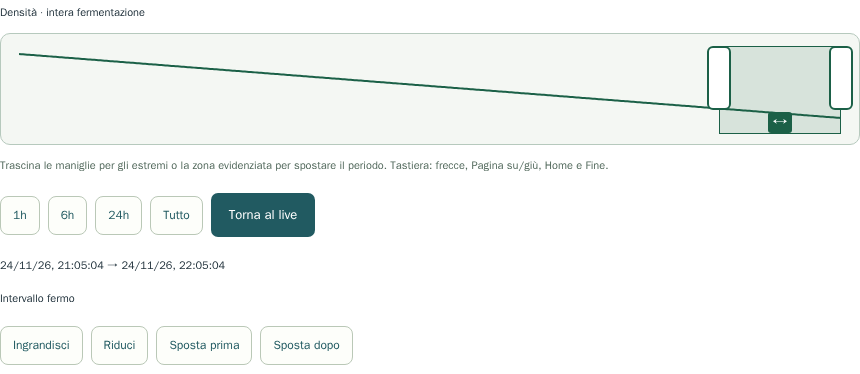
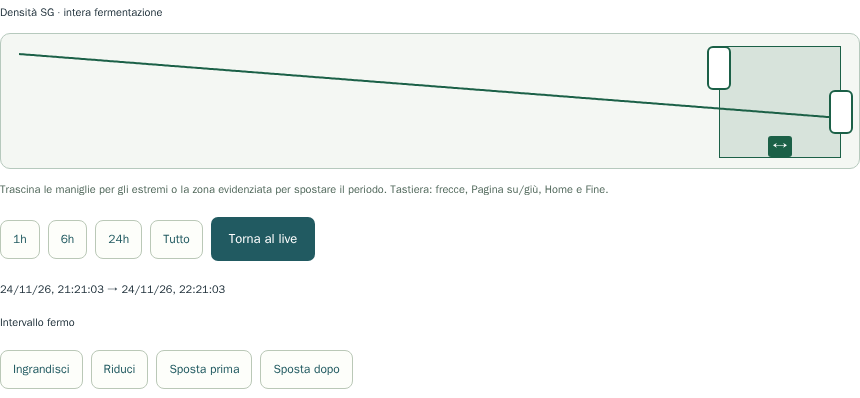
Keep nearby time handles independently draggable on touch screens

diff --git a/src/frontend/src/TimeNavigator.vue b/src/frontend/src/TimeNavigator.vue
@@ -34,6 +34,7 @@ let drag: {
   start: number
   end: number
   width: number
+  edge: 'start' | 'end' | 'window'
 } | null = null
 function shifted(start: number, end: number): [number, number] {
   const duration = Math.min(end - start, span.value)
@@ -44,19 +45,20 @@ function shifted(start: number, end: number): [number, number] {
   return [left, left + duration]
 }
 function handle(event: Event, edge: 'start' | 'end') {
-  const value = Number((event.target as HTMLInputElement).value)
-  if (edge === 'start')
-    emit(
-      'range',
-      Math.max(props.minimum, Math.min(value, props.end - shortest.value)),
-      props.end,
-    )
-  else
-    emit(
-      'range',
-      props.start,
-      Math.min(props.maximum, Math.max(value, props.start + shortest.value)),
-    )
+  selectEdge(edge, Number((event.target as HTMLInputElement).value))
+}
+function selectEdge(edge: 'start' | 'end', value: number) {
+  emit('range', ...edgeRange(edge, value, props.start, props.end))
+}
+function edgeRange(
+  edge: 'start' | 'end',
+  value: number,
+  start: number,
+  end: number,
+): [number, number] {
+  return edge === 'start'
+    ? [Math.max(props.minimum, Math.min(value, end - shortest.value)), end]
+    : [start, Math.min(props.maximum, Math.max(value, start + shortest.value))]
 }
 function key(event: KeyboardEvent, edge: 'start' | 'end' | 'window') {
   const directions: Record<string, number> = {
@@ -87,21 +89,13 @@ function key(event: KeyboardEvent, edge: 'start' | 'end' | 'window') {
         : event.key === 'End'
           ? props.maximum
           : current + amount
-    if (edge === 'start')
-      emit(
-        'range',
-        Math.max(props.minimum, Math.min(value, props.end - shortest.value)),
-        props.end,
-      )
-    else
-      emit(
-        'range',
-        props.start,
-        Math.min(props.maximum, Math.max(value, props.start + shortest.value)),
-      )
+    selectEdge(edge, value)
   }
 }
-function begin(event: PointerEvent) {
+function begin(
+  event: PointerEvent,
+  edge: 'start' | 'end' | 'window' = 'window',
+) {
   if (event.button !== 0 || !track.value) return
   event.preventDefault()
   const target = event.currentTarget as HTMLElement
@@ -113,12 +107,21 @@ function begin(event: PointerEvent) {
     start: props.start,
     end: props.end,
     width: track.value.getBoundingClientRect().width,
+    edge,
   }
 }
 function move(event: PointerEvent) {
   if (!drag || drag.id !== event.pointerId) return
   const delta = ((event.clientX - drag.x) / (drag.width || 1)) * span.value
-  draft.value = shifted(drag.start + delta, drag.end + delta)
+  draft.value =
+    drag.edge === 'window'
+      ? shifted(drag.start + delta, drag.end + delta)
+      : edgeRange(
+          drag.edge,
+          (drag.edge === 'start' ? drag.start : drag.end) + delta,
+          drag.start,
+          drag.end,
+        )
 }
 function finish(event: PointerEvent) {
   if (!drag || drag.id !== event.pointerId) return
@@ -157,7 +160,10 @@ const densityLine = computed(() => {
 <template>
   <section class="time-navigator" aria-label="Navigazione temporale">
     <p>Densità SG · intera fermentazione</p>
-    <div class="overview">
+    <div
+      class="overview"
+      :class="{ narrow: (end - start) / (maximum - minimum || 1) < 0.2 }"
+    >
       <div ref="track" class="overview-track">
         <svg
           viewBox="0 0 1000 80"
@@ -215,6 +221,11 @@ const densityLine = computed(() => {
           :value="selected[0]"
           @input="handle($event, 'start')"
           @keydown="key($event, 'start')"
+          @pointerdown="begin($event, 'start')"
+          @pointermove="move"
+          @pointerup="finish"
+          @pointercancel="cancel"
+          @lostpointercapture="cancel"
         />
         <input
           type="range"
@@ -227,6 +238,11 @@ const densityLine = computed(() => {
           :value="selected[1]"
           @input="handle($event, 'end')"
           @keydown="key($event, 'end')"
+          @pointerdown="begin($event, 'end')"
+          @pointermove="move"
+          @pointerup="finish"
+          @pointercancel="cancel"
+          @lostpointercapture="cancel"
         />
       </div>
     </div>
@@ -353,6 +369,7 @@ input[type='range'] {
   appearance: none;
   background: transparent;
   pointer-events: none;
+  touch-action: none;
 }
 input[type='range']::-webkit-slider-thumb {
   appearance: none;
@@ -389,5 +406,24 @@ input[type='range']:focus-visible::-moz-range-thumb {
 .navigator-help {
   font-size: 0.8rem;
   color: #52695c;
+}
+.overview.narrow {
+  height: 136px;
+}
+.narrow .overview-track,
+.narrow .selected-window {
+  height: 112px;
+}
+.narrow input[type='range'] {
+  height: 44px;
+}
+.narrow input[type='range']:last-of-type {
+  top: 44px;
+}
+.narrow input[type='range']::-webkit-slider-thumb {
+  height: 44px;
+}
+.narrow input[type='range']::-moz-range-thumb {
+  height: 40px;
 }
 </style>

diff --git a/tests/browser/test_time_window_dashboard.py b/tests/browser/test_time_window_dashboard.py
@@ -57,9 +57,9 @@ def test_period_loads_all_pages_and_freezes_until_return_to_live(
     assert float(points.split()[0].split(",")[1]) == 8
     assert float(points.split()[-1].split(",")[1]) == 72
     if directory := os.environ.get("HACKBREW_SCREENSHOT_DIR"):
-        page.get_by_role("region", name="Navigazione temporale").screenshot(
-            path=Path(directory) / f"navigatore-{width}.png"
-        )
+        navigator = page.get_by_role("region", name="Navigazione temporale")
+        navigator.evaluate("element => element.scrollIntoView({block: 'center'})")
+        navigator.screenshot(path=Path(directory) / f"navigatore-{width}.png")
     preview_box = preview.bounding_box()
     chart_box = page.get_by_role(
         "img", name="Grafico a linee: 61 letture", exact=True
@@ -226,9 +226,11 @@ def test_overview_window_moves_without_changing_duration_and_clamps_to_bounds(
     assert float(end.input_value()) == pytest.approx(base + 39600, rel=0, abs=0.00001)
     assert float(end.input_value()) - float(start.input_value()) == pytest.approx(3600)
     expect(page.get_by_text("Intervallo fermo", exact=True)).to_be_visible()
+    expect(page.get_by_text("Caricamento storico…", exact=True)).to_have_count(0)
     selection.scroll_into_view_if_needed()
     box = selection.bounding_box()
     assert box is not None
+    selected_before_touch = page.get_by_label("Intervallo visualizzato").inner_text()
     x, y = box["x"] + box["width"] / 2, box["y"] + box["height"] * 0.85
     session = page.context.new_cdp_session(page)
     session.send(
@@ -241,11 +243,13 @@ def test_overview_window_moves_without_changing_duration_and_clamps_to_bounds(
     )
     session.send("Input.dispatchTouchEvent", {"type": "touchEnd", "touchPoints": []})
     session.detach()
+    expect(page.get_by_label("Intervallo visualizzato")).not_to_have_text(selected_before_touch)
     assert float(end.input_value()) < base + 39600
     assert float(end.input_value()) - float(start.input_value()) == pytest.approx(3600)
     # Both real thumbs share the preview. Move the start thumb with the mouse,
     # independently of the center region and keyboard alternatives.
     page.get_by_role("button", name="Tutto", exact=True).click()
+    expect(page.get_by_role("img", name="Grafico a linee: 12 letture", exact=True)).to_be_visible()
     start.scroll_into_view_if_needed()
     box = start.bounding_box()
     assert box is not None
@@ -335,3 +339,52 @@ def test_late_history_response_does_not_replace_the_newer_period(
     expect(
         page.get_by_role("img", name="Anteprima densità: 12 letture", exact=True)
     ).to_be_visible()
+
+
+@pytest.mark.parametrize("width", [1440, 390])
+def test_nearby_handles_can_both_be_grabbed_with_mouse_and_touch(
+    page: Page, api: httpx.Client, width: int
+) -> None:
+    cycle = api.post(
+        "/api/fermentations", json=fermentation_payload(api, "Maniglie vicine")
+    ).json()["fermentation"]
+    base = datetime.fromisoformat(cycle["started_at"]).timestamp()
+    for offset in (0, 39600):
+        api.post("/telemetry", json=gateway_lettura(timestamp=base + offset)).raise_for_status()
+    page.goto(f"{api.base_url}?fermentation={cycle['id']}")
+    start = page.get_by_label("Inizio intervallo", exact=True)
+    end = page.get_by_label("Fine intervallo", exact=True)
+    start.focus()
+    start.press("End")
+    initial_start = float(start.input_value())
+    start.scroll_into_view_if_needed()
+    box = start.bounding_box()
+    assert box is not None
+    # Both thumbs are at the right edge with just a millisecond between them.
+    x, y = box["x"] + box["width"] - 12, box["y"] + 12
+    page.mouse.move(x, y)
+    page.mouse.down()
+    page.mouse.move(x - box["width"] * 0.05, y, steps=6)
+    page.mouse.up()
+    assert float(start.input_value()) < initial_start - 1000
+    expect(page.get_by_text("Caricamento storico…", exact=True)).to_have_count(0)
+    previous_start = float(start.input_value())
+    previous_end = float(end.input_value())
+    selected_before_touch = page.get_by_label("Intervallo visualizzato").inner_text()
+    box = end.bounding_box()
+    assert box is not None
+    x, y = box["x"] + box["width"] - 12, box["y"] + box["height"] / 2
+    session = page.context.new_cdp_session(page)
+    session.send(
+        "Input.dispatchTouchEvent",
+        {"type": "touchStart", "touchPoints": [{"x": x, "y": y, "id": 1}]},
+    )
+    session.send(
+        "Input.dispatchTouchEvent",
+        {"type": "touchMove", "touchPoints": [{"x": x - box["width"] * 0.04, "y": y, "id": 1}]},
+    )
+    session.send("Input.dispatchTouchEvent", {"type": "touchEnd", "touchPoints": []})
+    session.detach()
+    expect(page.get_by_label("Intervallo visualizzato")).not_to_have_text(selected_before_touch)
+    assert float(start.input_value()) == pytest.approx(previous_start, rel=0, abs=0.00001)
+    assert previous_start < float(end.input_value()) < previous_end - 100
